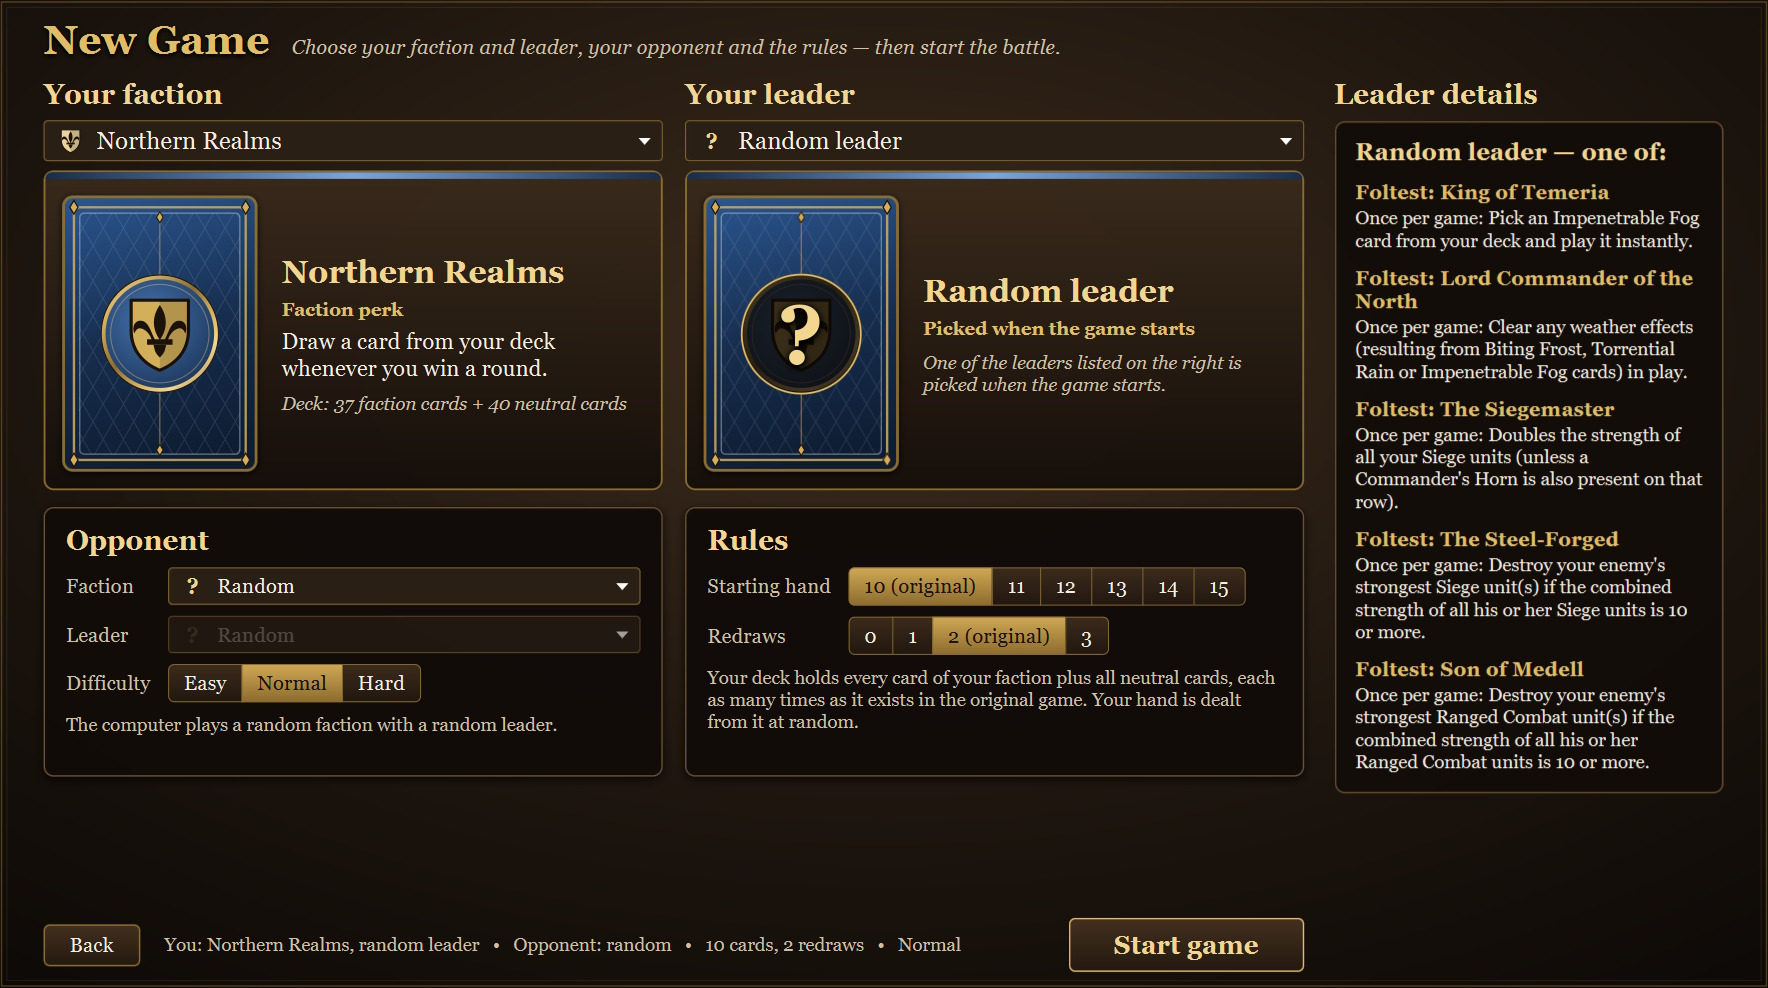
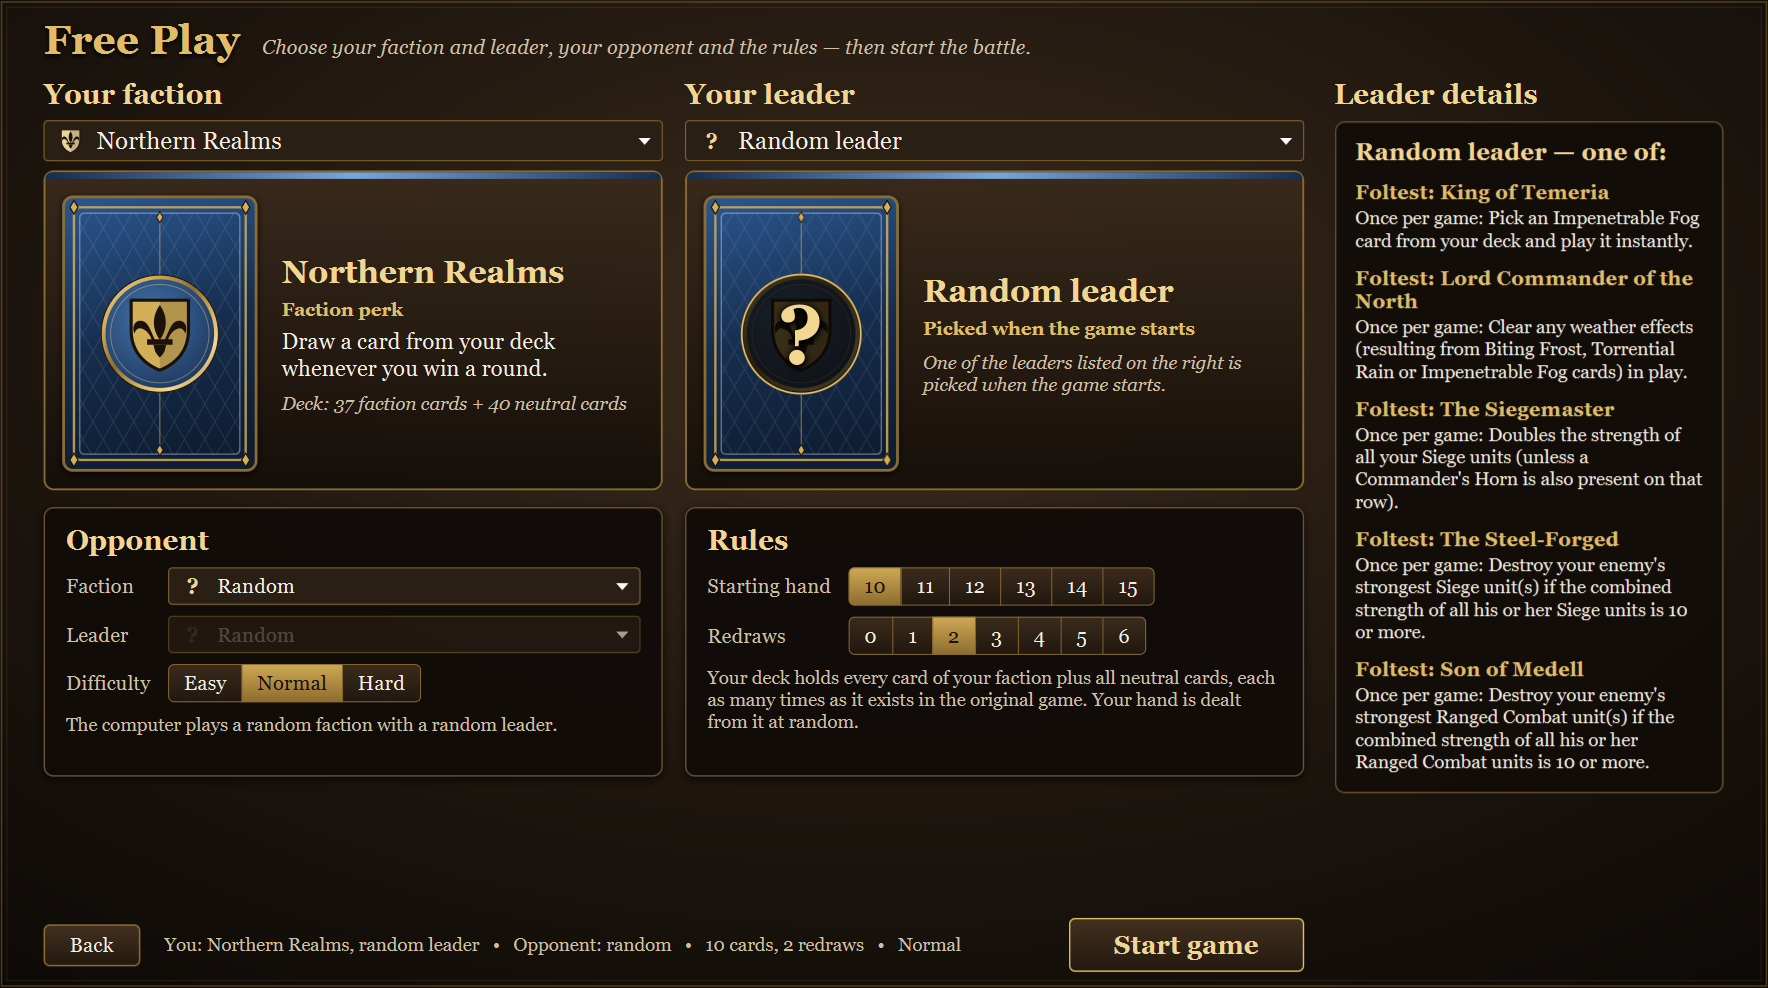
Update the README screenshots for Free Play and Collector Mode

diff --git a/README.md b/README.md
@@ -15,9 +15,17 @@ opponent makes its decisions.
 
 *The main menu.*
 
-![The setup screen](screenshots/new-game.jpg)
+![The Free Play setup screen](screenshots/new-game.jpg)
 
-*The setup screen: faction, leader, opponent and rules.*
+*The Free Play setup screen: faction, leader, opponent and rules.*
+
+![The Collector Mode setup screen](screenshots/collector-mode.jpg)
+
+*The same screen in Collector Mode: the cards you own, and how many cards each difficulty can still unlock.*
+
+![My Collection](screenshots/my-collection.jpg)
+
+*My Collection: the cards you own in Collector Mode.*
 
 ![Redrawing cards before the first round](screenshots/redraw.jpg)
 
